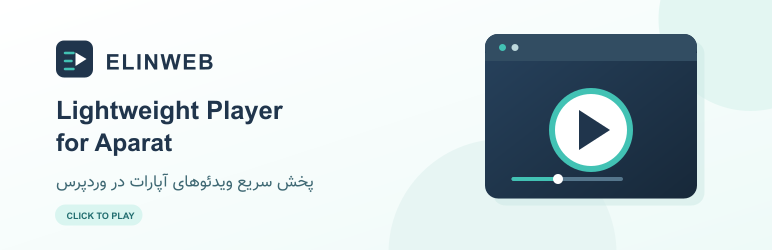
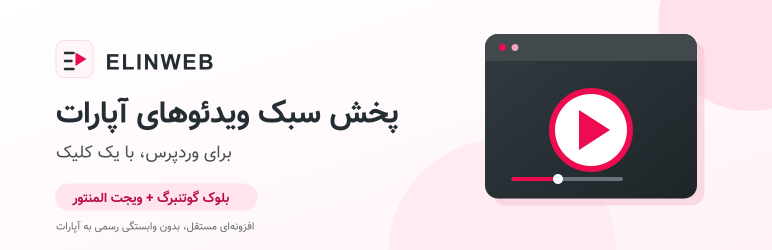
Use Aparat-inspired palette in directory artwork

diff --git a/wordpress-org-assets/README.md b/wordpress-org-assets/README.md
@@ -8,4 +8,4 @@ Upload these files to the top-level `assets` directory of the plugin's WordPress
 - `banner-772x250.png`: standard plugin directory banner
 - `banner-1544x500.png`: high-DPI plugin directory banner
 
-The independent Elinweb artwork is generated by `tools/build-directory-artwork.cjs` and does not reproduce Aparat's logo. Licensed under GPL-2.0-or-later with the plugin.
+The Elinweb artwork is generated by `tools/build-directory-artwork.cjs`. Its colors reference the Aparat integration, while the symbol and layout are original and the banner states that the plugin is independent. Licensed under GPL-2.0-or-later with the plugin.
